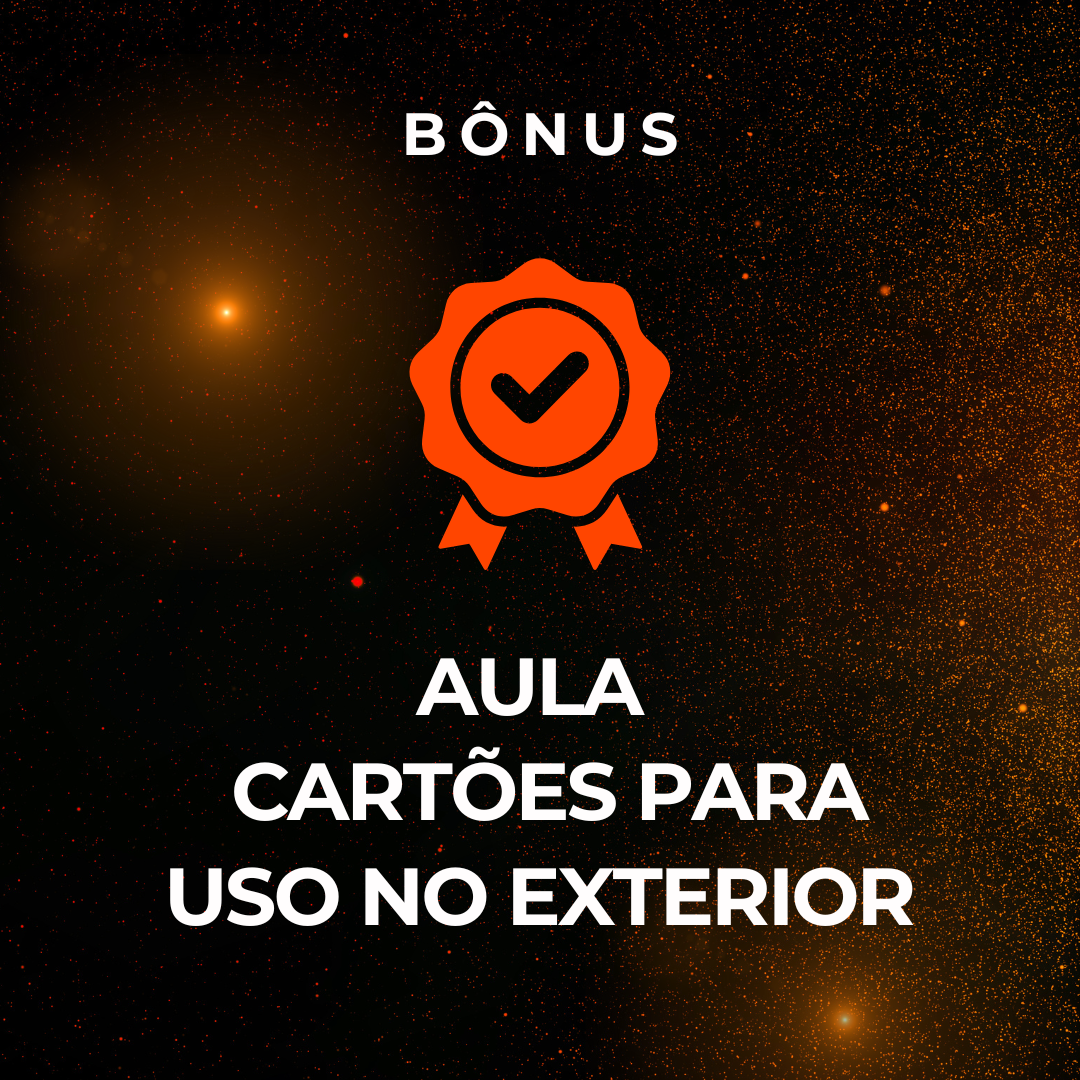
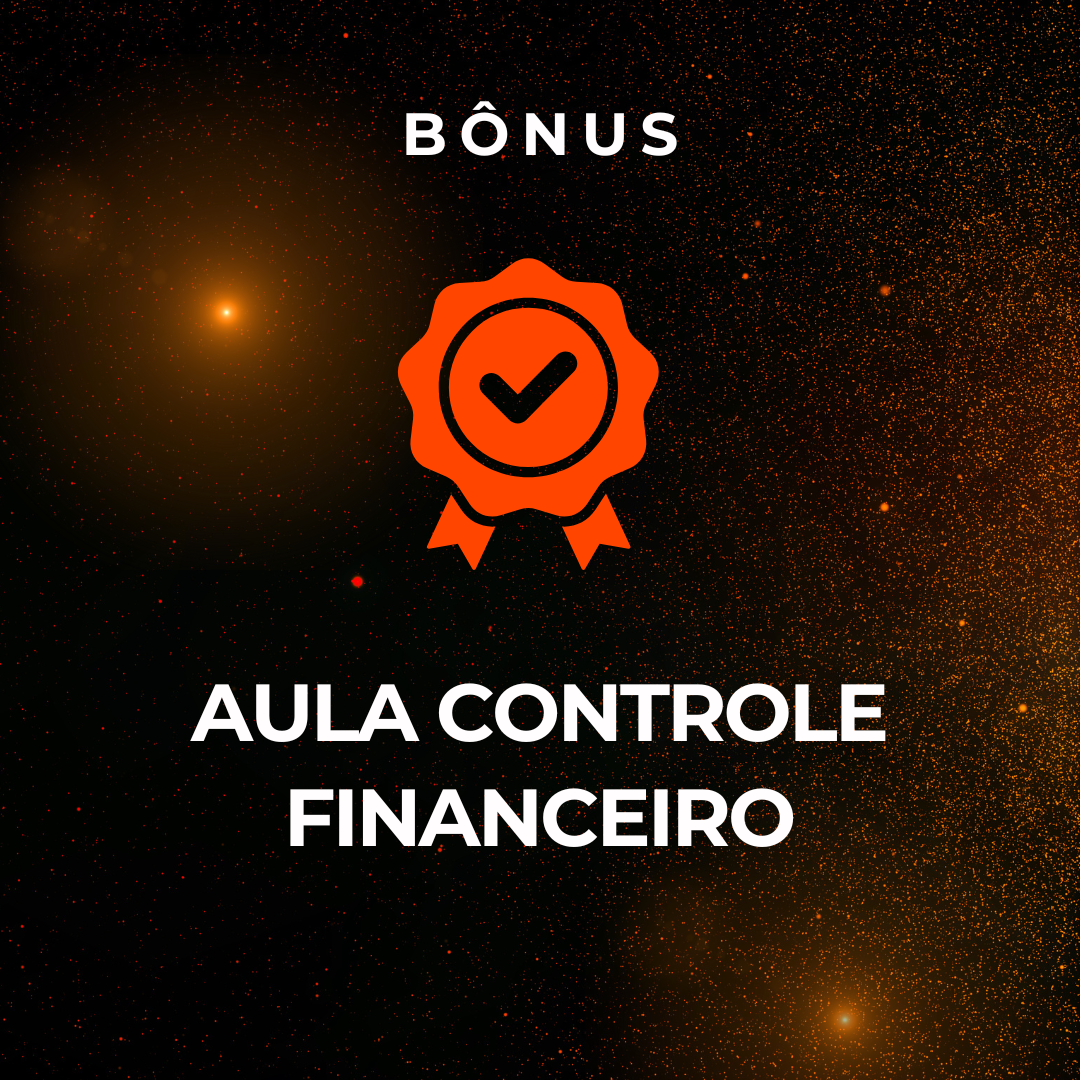
fix carousel and imgs

Changed region(s): [[0.1528, 0.6111, 0.8556, 0.8556], [0.3667, 0.2444, 0.6417, 0.55]]

diff --git a/index.html b/index.html
@@ -40,7 +40,7 @@
           <h2>Não deixe suas milhas acumularem poeira. Transforme-as em passagens, hospedagens e <span class="title-cta">dinheiro no bolso!</span></h2>
           <p>Imagine ser capaz de viajar para destinos dos sonhos, se hospedar em hotéis de luxo e ainda criar uma renda extra, tudo isso usando estratégias inteligentes com suas milhas. Você está prestes a ter acesso exatamente a como fazer isso de forma prática e eficaz.</p>
           <div class="d-flex justify-content-center justify-content-lg-start">
-            <a href="#about" class="btn-get-started">Quero viagens e renda extra</a>
+            <a href="#pricing" class="btn-get-started">Quero viagens e renda extra</a>
           </div>
         </div>
         <div class="col-lg-6 order-1 order-lg-2">
@@ -242,7 +242,7 @@
 
         <div class="row content">
           <div class="col-md-4 order-1 order-md-2" data-aos="fade-left">
-            <img src="assets/img/bonus/19.png" class="img-fluid" alt="">
+            <img src="assets/img/bonus/20.png" class="img-fluid" alt="">
           </div>
           <div class="col-md-8 pt-5 order-2 order-md-1" data-aos="fade-up">
             <h3>Aula bônus - Como levar dinheiro ao exterior:</h3>
@@ -254,7 +254,7 @@
 
         <div class="row content">
           <div class="col-md-4" data-aos="fade-right">
-            <img src="assets/img/bonus/20.png" class="img-fluid" alt="">
+            <img src="assets/img/bonus/21.png" class="img-fluid" alt="">
           </div>
           <div class="col-md-8 pt-5" data-aos="fade-up">
             <h3>Curso bônus: Super planilha com as aulas:</h3>
@@ -266,7 +266,7 @@
 
         <div class="row content">
           <div class="col-md-4 order-1 order-md-2" data-aos="fade-left">
-            <img src="assets/img/bonus/21.png" class="img-fluid" alt="">
+            <img src="assets/img/bonus/22.png" class="img-fluid" alt="">
           </div>
           <div class="col-md-8 pt-5 order-2 order-md-1" data-aos="fade-up">
             <h3>Curso bônus: Bandeira turbinada:</h3>
@@ -288,7 +288,7 @@
 
         <div class="row content">
           <div class="col-md-4" data-aos="fade-right">
-            <img src="assets/img/bonus/22.png" class="img-fluid" alt="">
+            <img src="assets/img/bonus/23.png" class="img-fluid" alt="">
           </div>
           <div class="col-md-8 pt-5" data-aos="fade-up">
             <h3>Curso bônus: Sala VIP turbinada:</h3>
@@ -300,7 +300,7 @@
 
         <div class="row content">
           <div class="col-md-4 order-1 order-md-2" data-aos="fade-left">
-            <img src="assets/img/bonus/23.png" class="img-fluid" alt="">
+            <img src="assets/img/bonus/24.png" class="img-fluid" alt="">
           </div>
           <div class="col-md-8 pt-5 order-2 order-md-1" data-aos="fade-up">
             <h3>Curso bônus: Cashback turbinado:</h3>
@@ -310,44 +310,115 @@
           </div>
         </div>
 
+        <div class="row content">
+          <div class="col-md-4" data-aos="fade-right">
+            <img src="assets/img/bonus/19.png" class="img-fluid" alt="">
+          </div>
+          <div class="col-md-8 pt-5" data-aos="fade-up">
+            <h3>Aula bônus - Controle financeiro:</h3>
+            <p class="fst-italic">
+              Aprenda com a acessar Salas VIP em aeroportos de todo o planeta
+            </p>
+          </div>
+        </div>
+
       </div>
     </section><!-- End Details Section -->
 
     <!-- ======= Testimonials Section ======= -->
-    <section class="slider-container">
-        <div class="section-header">
-          <h2>Depoimentos</h2>
-          <p>Olhe o que alguns de meus alunos tem a dizer:</p>
-        </div>
-        <div class="slider">
-          <div class="swiper dep">
-            <div class="swiper-wrapper">
-              <div class="swiper-slide">
-                <div class="project-img">
-                  <img src="assets/img/depoimentos/1.jpg" alt="Foto 01">
-                </div>
-              </div>
-              <div class="swiper-slide">
-                <div class="project-img">
-                  <img src="assets/img/depoimentos/3.jpg" alt="Foto 03">
-                </div>
-              </div>
-              <div class="swiper-slide">
-                <div class="project-img">
-                  <img src="assets/img/depoimentos/4.jpg" alt="Foto 03">
-                </div>
-              </div>
-              <div class="swiper-slide">
-                <div class="project-img">
-                  <img src="assets/img/depoimentos/5.jpg" alt="Foto 03">
-                </div>
+    <section id="tranding">
+      <div class="section-header">
+        <h2>Conteúdos</h2>
+        <p>Veja o que te espera nessa jornada.</p>
+      </div>
+      <div class="container">
+        <div class="swiper tranding-slider">
+          <div class="swiper-wrapper">
+            <!-- Slide-start -->
+            <div class="swiper-slide tranding-slide">
+              <div class="tranding-slide-img">
+                <img src="assets/img/depoimentos/1.jpg" alt="Tranding">
               </div>
             </div>
-          
-          <div class="swiper-button-next"></div>
-          <div class="swiper-button-prev"></div>
-          <div class="swiper-pagination"></div>
-    </section><!-- End Testimonials Section -->
+            <!-- Slide-end -->
+            <!-- Slide-start -->
+            <div class="swiper-slide tranding-slide">
+              <div class="tranding-slide-img">
+                <img src="assets/img/depoimentos/2.jpg" alt="Tranding">
+              </div>
+            </div>
+            <!-- Slide-end -->
+            <!-- Slide-start -->
+            <div class="swiper-slide tranding-slide">
+              <div class="tranding-slide-img">
+                <img src="assets/img/depoimentos/3.jpg" alt="Tranding">
+              </div>
+            </div>
+            <!-- Slide-end -->
+            <!-- Slide-start -->
+            <div class="swiper-slide tranding-slide">
+              <div class="tranding-slide-img">
+                <img src="assets/img/depoimentos/4.jpg" alt="Tranding">
+              </div>
+            </div>
+            <!-- Slide-end -->
+            <!-- Slide-start -->
+            <div class="swiper-slide tranding-slide">
+              <div class="tranding-slide-img">
+                <img src="assets/img/depoimentos/6.jpg" alt="Tranding">
+              </div>
+            </div>
+            <!-- Slide-end -->
+            <!-- Slide-start -->
+            <div class="swiper-slide tranding-slide">
+              <div class="tranding-slide-img">
+                <img src="assets/img/depoimentos/7.jpg" alt="Tranding">
+              </div>
+            </div>
+            <!-- Slide-end -->
+            <!-- Slide-start -->
+            <div class="swiper-slide tranding-slide">
+              <div class="tranding-slide-img">
+                <img src="assets/img/depoimentos/9.jpg" alt="Tranding">
+              </div>
+            </div>
+            <!-- Slide-end -->
+            <!-- Slide-start -->
+            <div class="swiper-slide tranding-slide">
+              <div class="tranding-slide-img">
+                <img src="assets/img/depoimentos/10.jpg" alt="Tranding">
+              </div>
+            </div>
+            <!-- Slide-end -->
+            <!-- Slide-start -->
+            <div class="swiper-slide tranding-slide">
+              <div class="tranding-slide-img">
+                <img src="assets/img/depoimentos/11.jpg" alt="Tranding">
+              </div>
+            </div>
+            <!-- Slide-end -->
+            <!-- Slide-start -->
+            <div class="swiper-slide tranding-slide">
+              <div class="tranding-slide-img">
+                <img src="assets/img/depoimentos/12.jpg" alt="Tranding">
+              </div>
+            </div>
+            <!-- Slide-end -->
+          </div>  
+
+          <div class="tranding-slider-control">
+            <div class="swiper-button-prev slider-arrow">
+              <i class="bi bi-caret-left"></i>
+            </div>
+            <div class="swiper-button-next slider-arrow">
+              <i class="bi bi-caret-right"></i>
+            </div>
+            <div class="swiper-pagination"></div>
+          </div>
+
+        </div>
+      </div>
+    </section><!-- End Conteúdo Section --><!-- End Testimonials Section -->
 
     <!-- ======= Pricing Section ======= -->
     <section id="pricing" class="pricing sections-bg">

diff --git a/assets/js/main.js b/assets/js/main.js
@@ -42,6 +42,9 @@ document.addEventListener('DOMContentLoaded', () => {
     grabCursor: true,
     centeredSlides: true,
     loop: true,
+    autoplay: {
+      delay: 3000,
+    },
     slidesPerView: 'auto',
     coverflowEffect: {
       rotate: 0,
